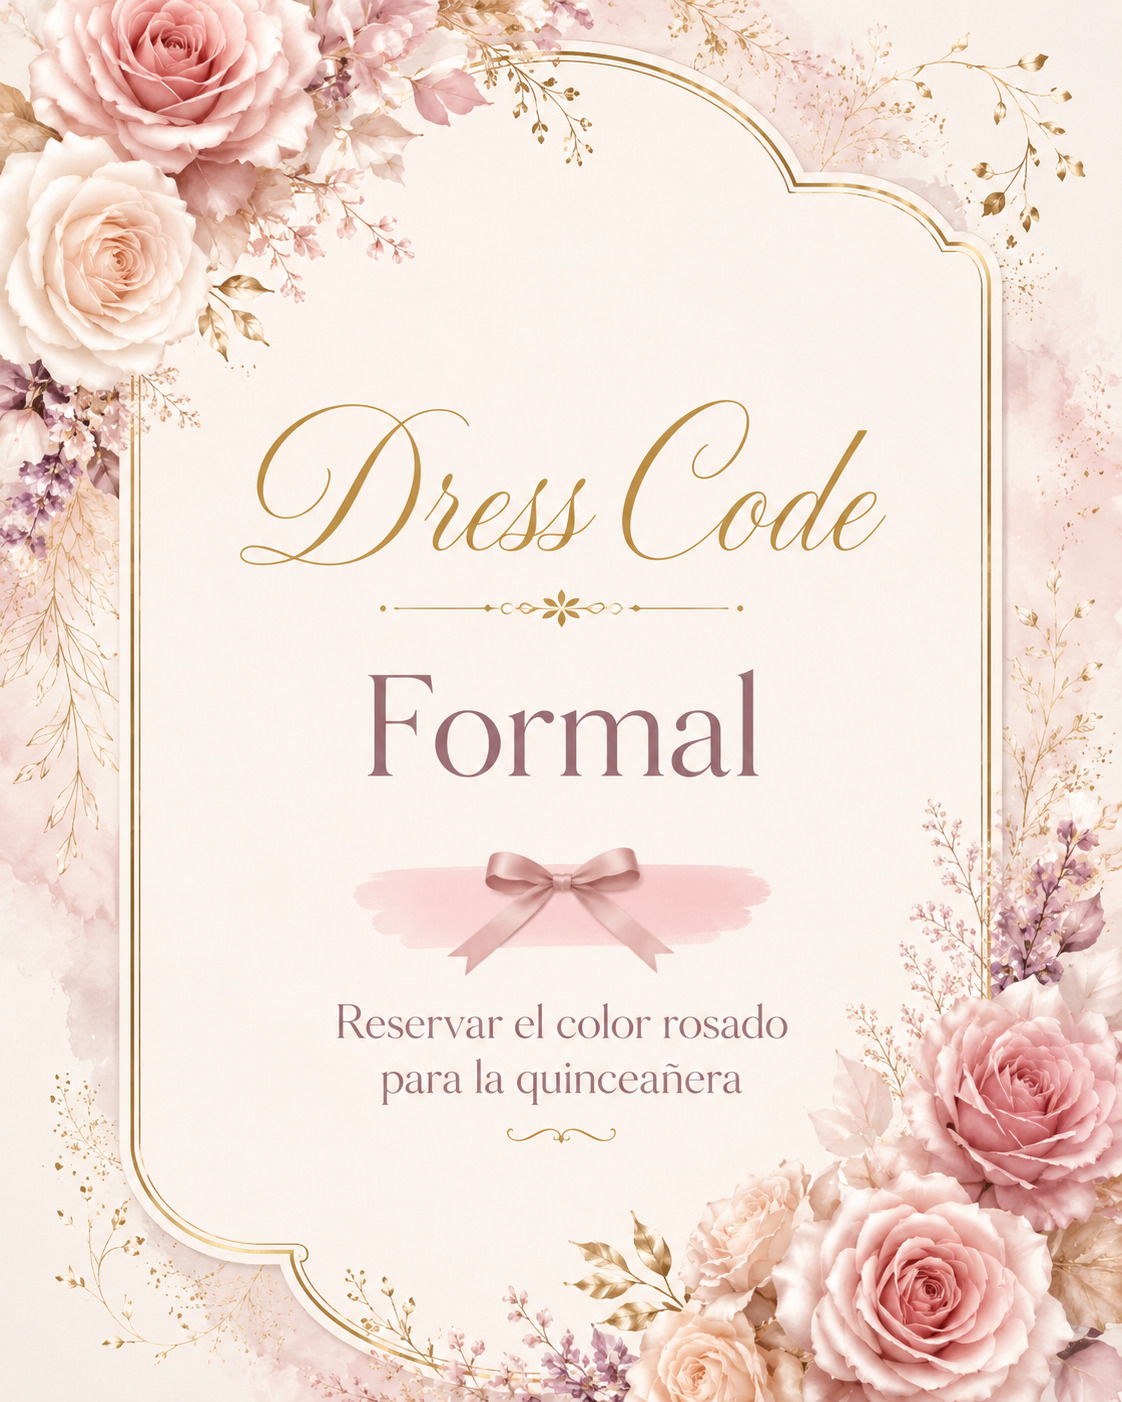
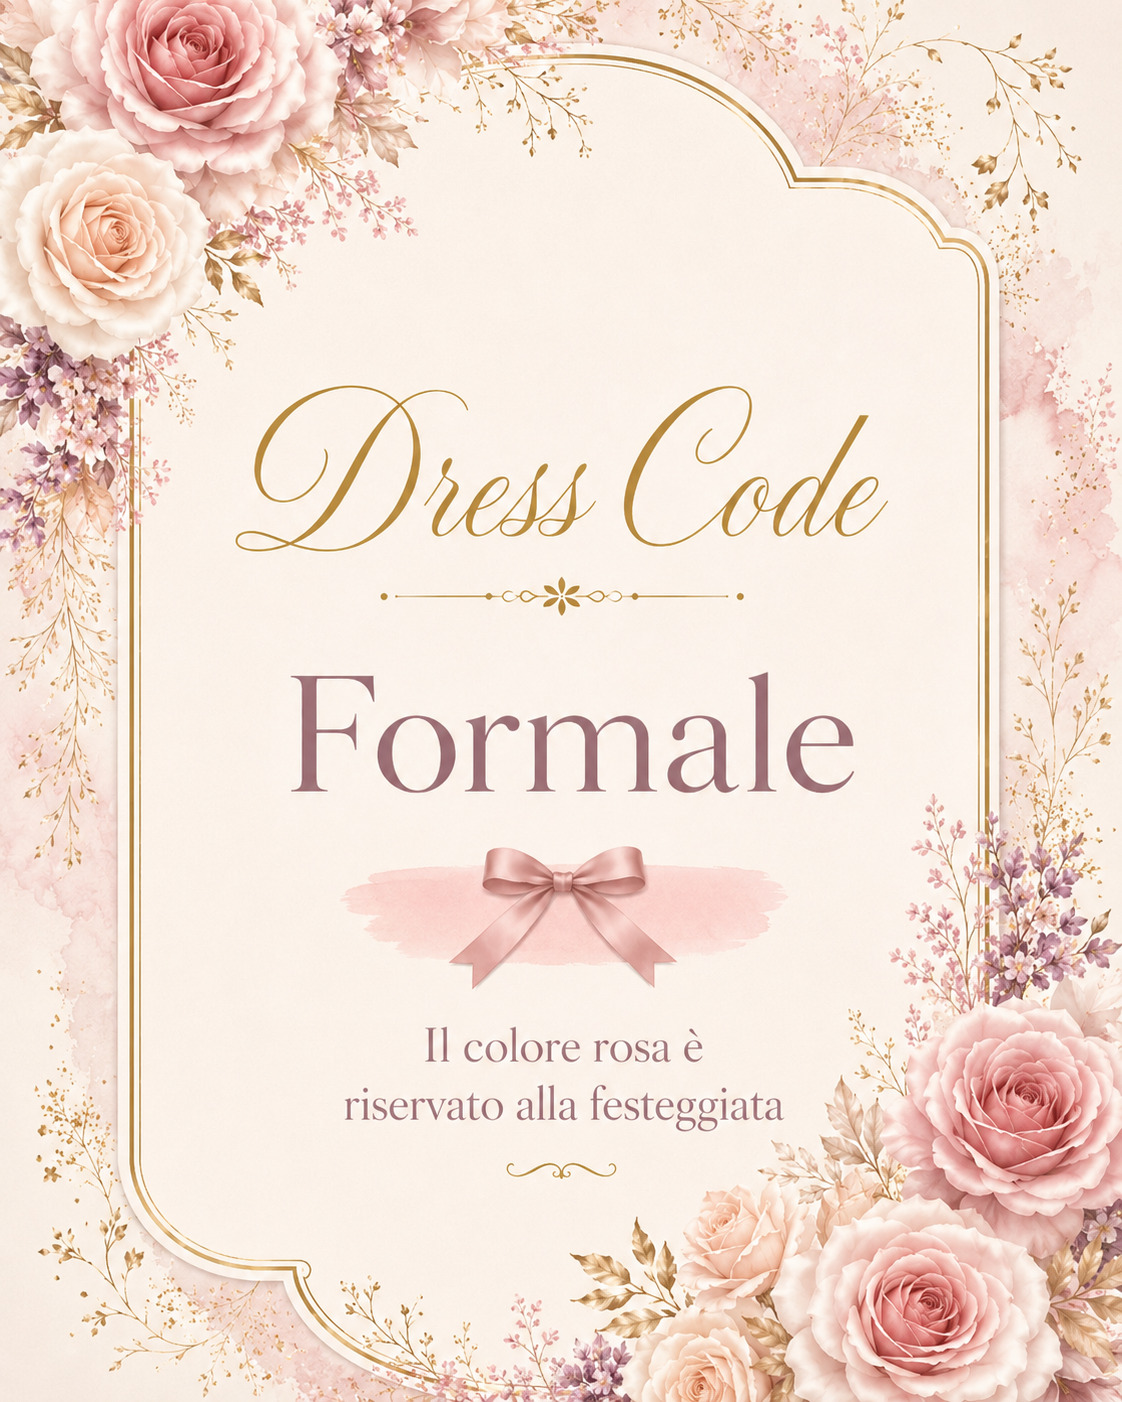
Add files via upload

diff --git a/storybook/alessia_15/config.js b/storybook/alessia_15/config.js
@@ -5,8 +5,8 @@ const INVITO_CONFIG = {
      ========================================================== */
 
   meta: {
-     title: "Alessia Nahomi - Mis XV Años",
-    description: "",
+    title: "I miei 15 anni - Alessia Nahomi Gamboa Castillo",
+    description: "Sei invitato a festeggiare i 15 anni di Alessia Nahomi.",
     image: "https://invitiwow.com/storybook/alessia_15/preview.jpg?v=1",
     url: "https://invitiwow.com/storybook/alessia_15/"
   },
@@ -66,16 +66,16 @@ const INVITO_CONFIG = {
      DATI GENERALI EVENTO
      ========================================================== */
 
-  evento: {
-    nome: "Alessia Nahomi Gamboa Castillo",
-    occasione: "Mis XV Años",
+ evento: {
+  nome: "Alessia Nahomi Gamboa Castillo",
+  occasione: "I miei 15 anni",
 
-    giorno: "3",
-    mese: "de octubre de",
-    anno: "2026",
-    giornoSettimana: "Sábado",
-    ora: "15:00"
-  },
+  giorno: "3",
+  mese: "ottobre",
+  anno: "2026",
+  giornoSettimana: "Sabato",
+  ora: "15:00"
+},
 
   /* ==========================================================
      WHATSAPP
@@ -83,8 +83,8 @@ const INVITO_CONFIG = {
 
   whatsapp: {
     numero: "393286412593",
-    messaggio: "Hola, confirmo mi asistencia a los XV años de Alessia Nahomi Gamboa Castillo el 3 de octubre.",
-    testoPulsante: "Confirmar asistencia"
+   messaggio: "Ciao, confermo la mia presenza alla festa per i 15 anni di Alessia Nahomi Gamboa Castillo il 3 ottobre.",
+  testoPulsante: "Conferma la presenza"
   },
 
   /* ==========================================================
@@ -95,7 +95,7 @@ const INVITO_CONFIG = {
     nomeLuogo: "Smeraldo Club",
     indirizzo: "Via Terni, 25, 20814 Varedo MB",
     link: "https://maps.app.goo.gl/FCpznWX9RDGWR1Mr8",
-    testoPulsante: "Ver ubicación"
+    testoPulsante: "Vedi la posizione"
   },
 
   /* ==========================================================
@@ -115,9 +115,9 @@ const INVITO_CONFIG = {
       card: "hero-card.png",
       foto: "hero.jpg",
 
-      titolo: "Mis XV Años",
-      nome: "Alessia Nahomi Gamboa Castillo",
-      frase: "Un sueño, una ilusión y un día inolvidable para celebrar.",
+     titolo: "I miei 15 anni",
+nome: "Alessia Nahomi Gamboa Castillo",
+frase: "Un sogno, un’emozione e un giorno indimenticabile da celebrare.",
 
       animazione: "fade",
 
@@ -144,11 +144,10 @@ const INVITO_CONFIG = {
       sfondo: "presentazione-bg.jpg",
       card: "pergamena.png",
 
-      frase: "A nuestra amada hija en tu quinceañera",
+      frase: "Alla nostra amata figlia, nel giorno dei tuoi 15 anni",
       genitori: "",
 
-      testo: "Que ese día marque el inicio de un camino lleno de amor, alegría y éxito. Eres nuestro mayor orgullo y te deseamos toda la felicidad del mundo. Que siempre sigas tus sueños y recuerda que siempre estaremos aquí para ti. Te amamos con todo nuestro corazón.",
-
+      testo: "Che questo giorno segni l’inizio di un cammino pieno d’amore, gioia e successi. Sei il nostro orgoglio più grande e ti auguriamo tutta la felicità del mondo. Continua sempre a seguire i tuoi sogni e ricorda che saremo sempre qui per te. Ti amiamo con tutto il cuore.",
       animazione: "zoom",
 
       stile: {
@@ -166,25 +165,25 @@ const INVITO_CONFIG = {
        COUNTDOWN
        ========================================== */
 
-    countdown: {
-      attivo: true,
+   countdown: {
+    attivo: true,
 
-      sfondo: "countdown-bg.jpg",
-      card: "countdown-card.png",
+    sfondo: "countdown-bg.jpg",
+    card: "countdown-card.png",
 
-      titolo: "Falta muy poco",
-      dataEvento: "2026-10-03T15:00:00",
+    titolo: "Manca pochissimo",
+    dataEvento: "2026-10-03T15:00:00",
 
-      etichette: {
-        giorni: "Días",
-        ore: "Horas",
-        minuti: "Minutos",
-        secondi: "Segundos"
-      },
-
-      testoConcluso: "¡El gran día ha llegado!",
-      animazione: "fade"
+    etichette: {
+      giorni: "Giorni",
+      ore: "Ore",
+      minuti: "Minuti",
+      secondi: "Secondi"
     },
+
+    testoConcluso: "Il grande giorno è arrivato!",
+    animazione: "fade"
+  },
 
     /* ==========================================
        GALLERIA DISATTIVATA SU RICHIESTA
@@ -213,8 +212,8 @@ const INVITO_CONFIG = {
       sfondo: "evento-bg.jpg",
       card: "evento-card.png",
 
-      titolo: "Detalles del Evento",
-      testo: "Acompáñanos a celebrar este día tan especial.",
+      titolo: "Dettagli dell'evento",
+      testo: "Festeggia con noi questo giorno così speciale.",
 
       mostraData: true,
       mostraOra: true,
@@ -246,26 +245,26 @@ const INVITO_CONFIG = {
       sfondo: "itinerary-bg.jpg",
       card: "itinerary-card.png",
 
-      titolo: "Programa",
-      testo: "Estos serán algunos de los momentos especiales de la celebración.",
+      titolo: "Programma",
+      testo: "Questi saranno alcuni dei momenti speciali della festa.",
 
       eventi: [
         {
           ora: "16:30",
-          titolo: "Brindis",
-          descrizione: "Celebraremos juntos este momento tan especial.",
+          titolo: "Brindisi",
+          descrizione: "Festeggeremo insieme questo momento così speciale.",
           icona: "🥂"
         },
         {
           ora: "19:00",
           titolo: "Cena",
-          descrizione: "Compartiremos una cena especial con familiares y amigos.",
+          descrizione: "Condivideremo una cena speciale con familiari e amici.",
           icona: "🍽️"
         },
         {
           ora: "20:30",
-          titolo: "Hora de la diversión",
-          descrizione: "Música, baile y mucha alegría para disfrutar juntos.",
+          titolo: "È ora di divertirsi",
+          descrizione: "Musica, balli e tanta allegria da vivere insieme.",
           icona: "🎉"
         }
       ],
@@ -310,8 +309,8 @@ const INVITO_CONFIG = {
       sfondo: "kids-bg.jpg",
       card: "kids-card.png",
 
-      titolo: "Niños Bienvenidos",
-      testo: "Los pequeños también forman parte de esta gran celebración.",
+     titolo: "Bambini benvenuti",
+      testo: "Anche i più piccoli fanno parte di questa grande festa.",
 
       animazione: "zoom",
 
@@ -370,9 +369,8 @@ const INVITO_CONFIG = {
       sfondo: "rsvp-bg.jpg",
       card: "rsvp-card.png",
 
-      titolo: "Confirma tu asistencia",
-      testo: "Por favor, confirma tu asistencia hasta el 1 de septiembre.",
-
+     titolo: "Conferma la tua presenza",
+testo: "Per favore, conferma la tua presenza entro il 1° settembre.",
       mostraWhatsapp: true,
       animazione: "zoom"
     },
@@ -388,8 +386,8 @@ const INVITO_CONFIG = {
       card: "final-card.png",
       foto: "finale.jpg",
 
-      titolo: "Alessia Nahomi",
-      frase: "¡Te esperamos para compartir juntos este día inolvidable!",
+     titolo: "Alessia Nahomi",
+      frase: "Ti aspettiamo per condividere insieme questo giorno indimenticabile!",
 
       animazione: "fade",
 